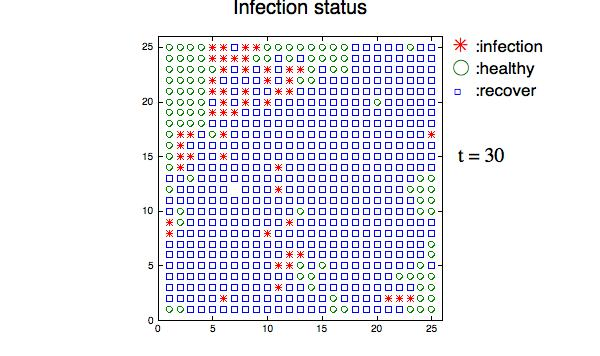
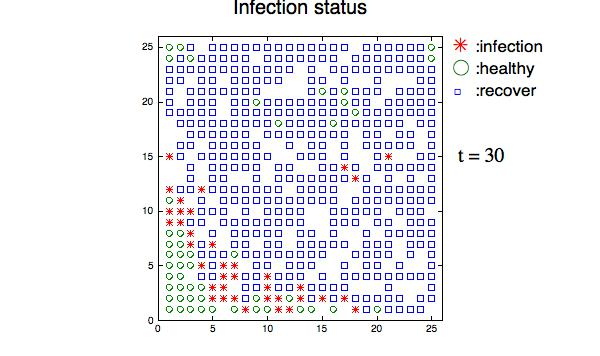
コメント追加

diff --git a/pandemic.m b/pandemic.m
@@ -11,7 +11,7 @@ N = nx * ny;
 
 I = 0.2;        %感染率
 R = 0.385;      %治癒率
-D = 0.0004 * R; %死亡率
+D = 0.05; %死亡率
 F = 8;         %初期感染者数
 nt_max = 60;
 nt_interval = nt_max / 20;
